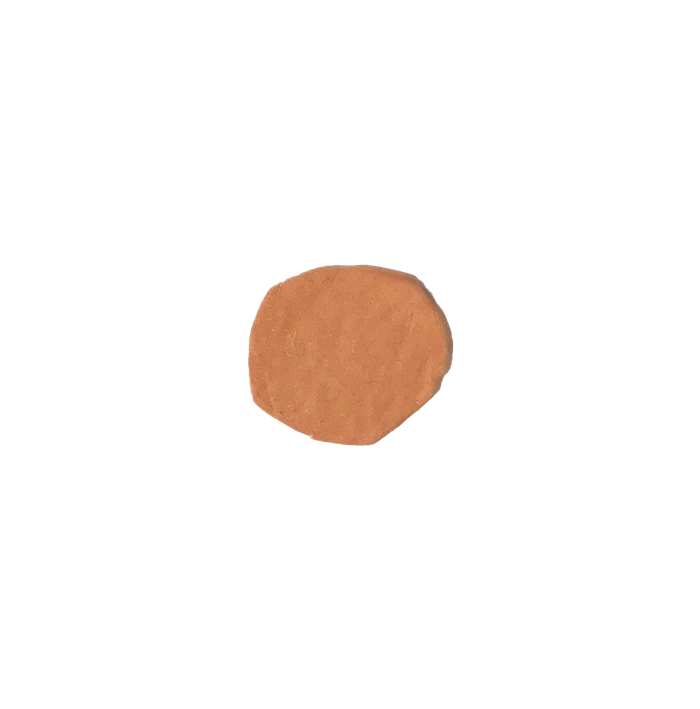
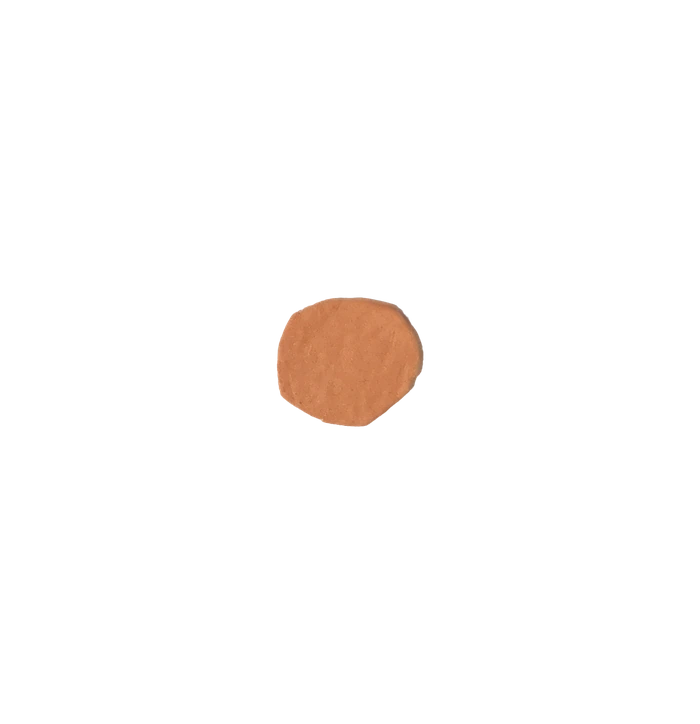
Keep objects inside their tile as they grow; Valley Strong; SoCal final frame
NEVER LEAVING THE GRID SQUARE — Noah: "if the heart is thrown THEN the
animation starts, the heart will go outside the bounds of the grid area.
Please make it so that the icons never go outside the bounds of the grid
square, but always feel like they're sitting or resting on the borders."

The containment test was inside the physics step's early-out, so it only ran
while the object was awake. That is precisely backwards for this bug: the
outline changes underneath the physics as the animation plays, and these
animations mostly GROW, so a heart parked against a border and then played
swelled straight through the edge it was resting on with nothing left running
to push it back. Collision now runs unconditionally, including while asleep,
with only the bounce and roll RESPONSES gated on being awake. The object is
also woken whenever the frame changes, so a newly larger shape settles back
down onto a border instead of hanging where its smaller self came to rest.

Verified by parking the CAC heart against an edge and then playing it: it
finishes on its last, largest frame contained on all four sides.

FIXED A REAL DRAG BUG found while testing that. setPointerCapture throws
NotFoundError when the pointer is no longer active — a fast flick, or one
that has already left the window — and it was being called BEFORE the grab
offset and velocity samples were recorded. The throw aborted the handler with
`dragging` already true and nothing recorded, wedging the object in a
[…]

Changed region(s): [[0.33, 0.3724, 0.66, 0.6516]]

diff --git a/src/lib/useThrowable.ts b/src/lib/useThrowable.ts
@@ -162,12 +162,25 @@ export function useThrowable({
       if (lastTs.current == null) lastTs.current = ts;
       const dt = Math.min((ts - lastTs.current) / 1000, 1 / 30);
       lastTs.current = ts;
-      if (asleep.current && !dragging.current) return;
+
+      /* The containment test runs even while the object is ASLEEP, and that
+       * is not defensive tidiness — it is a real bug fix. The outline changes
+       * under the physics as the animation plays, and these animations mostly
+       * GROW: throw the CAC heart so it settles against a border, then play
+       * it, and the heart swells past the edge it was resting on. Noah:
+       * "if the heart is thrown THEN the animation starts, the heart will go
+       * outside the bounds of the grid area." Skipping collision whenever the
+       * object was at rest meant nothing ever pushed the newly larger shape
+       * back in. Clamping unconditionally guarantees the promise he actually
+       * wants — "the icons never go outside the bounds of the grid square" —
+       * no matter what changes the shape while it sits still. */
+      const idle = asleep.current && !dragging.current;
+      const before = { x: pos.current.x, y: pos.current.y };
 
       const cr = container.getBoundingClientRect();
       const W = el.offsetWidth;
 
-      if (!dragging.current) {
+      if (!idle && !dragging.current) {
         vel.current.y += cr.height * GRAVITY_PER_HEIGHT * dt;
         const drag = Math.max(0, 1 - AIR_DRAG * dt);
         vel.current.x *= drag;
@@ -187,13 +200,13 @@ export function useThrowable({
 
       if (p.x < left) {
         pos.current.x += left - p.x;
-        if (Math.abs(vel.current.x) > WALL_REST_SPEED) {
+        if (!idle && Math.abs(vel.current.x) > WALL_REST_SPEED) {
           vel.current.x = Math.abs(vel.current.x) * RESTITUTION;
           spin.current -= vel.current.y * 0.05;
         } else vel.current.x = 0;
       } else if (p.x > cr.width - right) {
         pos.current.x -= p.x - (cr.width - right);
-        if (Math.abs(vel.current.x) > WALL_REST_SPEED) {
+        if (!idle && Math.abs(vel.current.x) > WALL_REST_SPEED) {
           vel.current.x = -Math.abs(vel.current.x) * RESTITUTION;
           spin.current += vel.current.y * 0.05;
         } else vel.current.x = 0;
@@ -208,10 +221,10 @@ export function useThrowable({
         // Without this, gravity's per-frame kick against an unconditional
         // bounce keeps the object chattering just above the sleep threshold
         // and it never settles.
-        if (vel.current.y > WALL_REST_SPEED) vel.current.y = -vel.current.y * RESTITUTION;
+        if (!idle && vel.current.y > WALL_REST_SPEED) vel.current.y = -vel.current.y * RESTITUTION;
         else vel.current.y = 0;
 
-        if (!dragging.current) {
+        if (!idle && !dragging.current) {
           // Ground contact ties spin to horizontal speed the way a wheel
           // rolls. `down` is the effective rolling radius, floored at a
           // fraction of the width so a small vel.x can't demand an enormous
@@ -232,7 +245,7 @@ export function useThrowable({
         }
       }
 
-      apply();
+      if (!idle || before.x !== pos.current.x || before.y !== pos.current.y) apply();
     };
 
     const pointerPos = (e: PointerEvent) => {
@@ -241,15 +254,27 @@ export function useThrowable({
     };
 
     const onDown = (e: PointerEvent) => {
+      // Record the grab BEFORE asking for capture. setPointerCapture throws
+      // NotFoundError if the pointer is no longer active — a fast flick, or a
+      // pointer that has already left the window — and doing it first meant
+      // that throw aborted the handler with `dragging` already true and no
+      // grab offset or samples recorded, leaving the object wedged in a
+      // half-drag it could never complete. Capture is an enhancement (it keeps
+      // the drag alive outside the element's bounds), so it must not be able
+      // to take the drag down with it.
       dragging.current = true;
       movedEnough.current = false;
-      el.setPointerCapture(e.pointerId);
       const p = pointerPos(e);
       const piv = pivotPos();
       grabOffset.current = { x: piv.x - p.x, y: piv.y - p.y };
       samples.current = [{ ...p, t: performance.now() }];
       vel.current = { x: 0, y: 0 };
       asleep.current = false;
+      try {
+        el.setPointerCapture(e.pointerId);
+      } catch {
+        /* pointer already gone; the window-level pointerup still ends it */
+      }
     };
 
     const onMove = (e: PointerEvent) => {
@@ -347,5 +372,12 @@ export function useThrowable({
     };
   }, [elementRef, containerRef, enabled, shapeNow]);
 
-  return { reset, rotationRef: rot };
+  /** Let gravity take over again — used when the artwork changes shape, so a
+   *  newly grown object settles back onto a border instead of hanging where
+   *  its smaller self happened to rest. */
+  const wake = useCallback(() => {
+    asleep.current = false;
+  }, []);
+
+  return { reset, wake, rotationRef: rot };
 }

diff --git a/src/components/home/ProjectFrameAnimation.tsx b/src/components/home/ProjectFrameAnimation.tsx
@@ -43,12 +43,28 @@ export type FrameAnimation = {
   /** Intrinsic size of every (registered, identically sized) frame. */
   width: number;
   height: number;
+  /**
+   * How the object reacts as it plays.
+   *
+   * "rock" (default) kicks it a few degrees per frame, as though absorbing a
+   * bite. "draw" is for Valley Strong, where a house is drawn around a person
+   * — Noah: "I don't need each of the lines to shake like the others, but I
+   * do want some sense that the line is being drawn on." So it holds still and
+   * CROSSFADES between frames instead. That works because consecutive frames
+   * are identical except for the line just added: fading between them leaves
+   * everything already drawn rock steady and washes in only the new stroke,
+   * which is exactly the impression of ink being laid down.
+   */
+  style?: "rock" | "draw";
 };
 
 /** Per-frame hold. Nudged up from 150 — Noah: "just a tad slower". */
 const FRAME_MS = 210;
 /** Peak rock, in degrees. Small: it should read as recoil, not a spin. */
 const ROCK_DEG = 7;
+/** Crossfade length for "draw" animations — long enough to see the stroke
+ *  arrive, short enough that the drawing never looks blurry. */
+const DRAW_FADE_MS = 150;
 
 export default function ProjectFrameAnimation({
   animation,
@@ -62,7 +78,7 @@ export default function ProjectFrameAnimation({
   className?: string;
   style?: React.CSSProperties;
 }) {
-  const { frames, width, height } = animation;
+  const { frames, width, height, style: motion = "rock" } = animation;
   const [index, setIndex] = useState(0);
   /* Mirrors `index` for the physics, which reads it inside a rAF loop and must
    * not be re-subscribed on every frame change. */
@@ -83,6 +99,7 @@ export default function ProjectFrameAnimation({
    * so it reads as the object absorbing a bite rather than swinging. Written
    * straight to the style so it costs no React render inside the loop. */
   const rock = useCallback((step: number) => {
+    if (motion === "draw") return; // holds still; the crossfade carries it
     const el = rockRef.current;
     if (!el) return;
     const decay = Math.pow(0.62, step);
@@ -94,7 +111,7 @@ export default function ProjectFrameAnimation({
       el.style.transition = `transform ${FRAME_MS * 0.85}ms cubic-bezier(.2,.7,.3,1)`;
       el.style.transform = "rotate(0deg)";
     });
-  }, []);
+  }, [motion]);
 
   const play = useCallback(() => {
     if (spent.current) return; // plays once; see the note above
@@ -115,17 +132,22 @@ export default function ProjectFrameAnimation({
     }, FRAME_MS);
   }, [clearTimer, frames.length, rock]);
 
-  useEffect(() => {
-    frameRef.current = index;
-  }, [index]);
-
-  const { reset: resetThrow } = useThrowable({
+  const { reset: resetThrow, wake } = useThrowable({
     elementRef: hostRef,
     containerRef,
     imageSrcs: frames,
     frameRef,
     onClick: play,
   });
+
+  useEffect(() => {
+    frameRef.current = index;
+    // The outline just changed, and these shapes mostly grow. Hand control
+    // back to gravity so a bigger object settles onto a border rather than
+    // hanging where its smaller self came to rest.
+    wake();
+  }, [index, wake]);
+
 
   /** Whole again: frame 1, upright, back where it started. */
   const restore = useCallback(() => {
@@ -198,7 +220,10 @@ export default function ProjectFrameAnimation({
               priority={i === 0}
               draggable={false}
               className="object-contain pointer-events-none"
-              style={{ opacity: i === index ? 1 : 0 }}
+              style={{
+                opacity: i === index ? 1 : 0,
+                transition: motion === "draw" ? `opacity ${DRAW_FADE_MS}ms linear` : undefined,
+              }}
             />
           ))}
         </div>

diff --git a/src/components/home/Projects.tsx b/src/components/home/Projects.tsx
@@ -12,9 +12,8 @@ import ProjectFrameAnimation, { type FrameAnimation } from "./ProjectFrameAnimat
  * about-me head] is looking and essentially want it to happen on the
  * homepage.")
  *
- * Sprouts, Corita, SoCal Earth and the Cultural Olympiad are edited; Valley
- * Strong and More Work still have raws only, so those tiles keep their hover
- * video until frames arrive. Both paths live side by side on purpose — a tile
+ * Five of the six are edited; only More Work still has raws, so that tile
+ * keeps its hover video until frames arrive. Both paths live side by side on purpose — a tile
  * shows an object if it has one and falls back to video if it doesn't — so
  * they convert one at a time rather than in a flag day.
  *
@@ -22,8 +21,19 @@ import ProjectFrameAnimation, { type FrameAnimation } from "./ProjectFrameAnimat
  * them, each with its own anchor: the apple holds its STEM (the only part
  * that survives being eaten), the heart and the sun their CENTRE ("Have the
  * heart grow from the center"; the sun "starting as a dot") and the flame its
- * BASE ("Have the flame growing from the base"). See tools/project-animations/align_frames.py. */
+ * BASE ("Have the flame growing from the base"). Valley Strong is matched by
+ * TEMPLATE — a house is drawn around a person, and the person is only
+ * isolatable in frame 1, so frame 1 is located inside each later frame. See tools/project-animations/align_frames.py. */
 const OBJECT_ANIMATIONS: Record<string, FrameAnimation & { heightFraction: number }> = {
+  "valley-strong-credit-union": {
+    frames: [1, 2, 3, 4, 5, 6, 7].map(
+      (n) => `/assets/home/project-animations/valley-strong/${n}.webp`
+    ),
+    width: 700,
+    height: 496,
+    heightFraction: 0.315,
+    style: "draw",
+  },
   "sprouts-farmers-market": {
     frames: [1, 2, 3, 4, 5].map((n) => `/assets/home/project-animations/sprouts/${n}.webp`),
     width: 700,
@@ -37,10 +47,10 @@ const OBJECT_ANIMATIONS: Record<string, FrameAnimation & { heightFraction: numbe
     heightFraction: 0.367,
   },
   "socal-earth": {
-    frames: [1, 2, 3].map((n) => `/assets/home/project-animations/socal-earth/${n}.webp`),
+    frames: [1, 2, 3, 4].map((n) => `/assets/home/project-animations/socal-earth/${n}.webp`),
     width: 700,
-    height: 709,
-    heightFraction: 0.365,
+    height: 724,
+    heightFraction: 0.37,
   },
   "cultural-olympiad-poster": {
     frames: [1, 2, 3, 4, 5].map((n) => `/assets/home/project-animations/olympics/${n}.webp`),

diff --git a/tools/project-animations/align_frames.py b/tools/project-animations/align_frames.py
@@ -5,6 +5,17 @@ frame of the animation to look like the apple is consistent." Each animation
 needs a different treatment, because each is doing a different thing:
 
   ANCHOR — the point that must hold still between frames.
+    "template"  match frame 1's own silhouette into every later frame
+                (Valley Strong). A house is drawn around a person, so the
+                PERSON is what must not move — but he is only isolatable in
+                frame 1, where he is the entire drawing. Every later frame
+                buries him in walls and a roof, so no landmark test finds him.
+                Instead frame 1 is slid and scaled over each later frame until
+                the most of it is covered, which locates the same drawing
+                inside the bigger one. Measured before doing this, frame 1
+                overlapped the later frames only 21-35%, so the shots really
+                do wander; these are photographs of a drawing being added to,
+                not layers on one canvas.
     "stem"   the top of the shape (Sprouts). The apple is eaten from the
              sides, so the stem is the only landmark that survives; aligning
              on the centroid or the bbox would drag the apple sideways as the
@@ -72,9 +83,79 @@ def anchor_of(im, m, mode):
     raise ValueError(f"unknown anchor {mode!r}")
 
 
+def _mask(im, alpha=ALPHA):
+    return np.array(im)[..., 3] > alpha
+
+
+def _template_offsets(images):
+    """Locate frame 1's drawing inside every later frame.
+
+    Scores the share of the REFERENCE's pixels that the candidate covers, not
+    IoU: later frames legitimately contain far more ink, so intersection over
+    union would punish them for the house and pull the fit off the person.
+    """
+    import cv2
+
+    DS = 4
+    small = [cv2.resize(_mask(im).astype(np.uint8), None, fx=1 / DS, fy=1 / DS,
+                        interpolation=cv2.INTER_AREA) > 0 for im in images]
+    ref_s = small[0]
+    ry, rx = np.where(ref_s)
+    ref_pts = np.stack([rx, ry], 1)
+    total = max(len(ref_pts), 1)
+
+    def cover(m, scale, dx, dy):
+        H, W = m.shape
+        pts = (ref_pts * scale).astype(int)
+        xs = pts[:, 0] + dx
+        ys = pts[:, 1] + dy
+        ok = (xs >= 0) & (xs < W) & (ys >= 0) & (ys < H)
+        if not ok.any():
+            return -1.0
+        return m[ys[ok], xs[ok]].sum() / total
+
+    out = [(1.0, 0.0, 0.0)]
+    for m in small[1:]:
+        best = (-1.0, 1.0, 0, 0)
+        for scale in np.arange(0.86, 1.15, 0.02):
+            for dy in range(-40, 41, 4):
+                for dx in range(-40, 41, 4):
+                    c = cover(m, scale, dx, dy)
+                    if c > best[0]:
+                        best = (c, scale, dx, dy)
+        _, s0, dx0, dy0 = best
+        for scale in np.arange(s0 - 0.02, s0 + 0.021, 0.005):
+            for dy in range(dy0 - 4, dy0 + 5):
+                for dx in range(dx0 - 4, dx0 + 5):
+                    c = cover(m, scale, dx, dy)
+                    if c > best[0]:
+                        best = (c, scale, dx, dy)
+        _, scale, dx, dy = best
+        out.append((scale, dx * DS, dy * DS))
+    return out
+
+
 def align(paths, anchor="stem", scale_mode="normalise", pad=PAD,
           reference_size=REFERENCE_SIZE):
     frames = [shape(p) for p in paths]
+
+    if anchor == "template":
+        images = [im for im, _ in frames]
+        offs = _template_offsets(images)
+        _ref_im, ref_m = frames[0]
+        ax0 = (ref_m["x0"] + ref_m["x1"]) / 2.0
+        ay0 = (ref_m["y0"] + ref_m["y1"]) / 2.0
+        placed = []
+        for (im, _m), (sc, dx, dy) in zip(frames, offs):
+            # a frame-1 point p appears at p*sc + (dx,dy) here, so undo that
+            inv = 1.0 / sc
+            w, h = im.size
+            im2 = im.resize((max(1, round(w * inv)), max(1, round(h * inv))), Image.LANCZOS)
+            placed.append((im2, (ax0 * sc + dx) * inv, (ay0 * sc + dy) * inv))
+        # Template matching fixes the frames RELATIVE to each other but says
+        # nothing about how big the result should be, so the set still has to
+        # be brought to the shared reference like the others.
+        return _rescale_to_reference(_compose(placed, pad), reference_size)
 
     if scale_mode == "normalise":
         target_h = float(np.median([m["h"] for _, m in frames]))
@@ -95,6 +176,21 @@ def align(paths, anchor="stem", scale_mode="normalise", pad=PAD,
         ax, ay = anchor_of(im, m, anchor)
         placed.append((im2, ax * s, ay * s))
 
+    return _compose(placed, pad)
+
+
+def _rescale_to_reference(frames, reference_size):
+    """Scale a composed set so its LAST frame matches the shared size."""
+    a = np.array(frames[-1])
+    ys, xs = np.where(a[..., 3] > ALPHA)
+    geo = float(np.sqrt((xs.max() - xs.min() + 1) * (ys.max() - ys.min() + 1)))
+    k = reference_size / geo
+    W, H = frames[0].size
+    size = (max(1, round(W * k)), max(1, round(H * k)))
+    return [f.resize(size, Image.LANCZOS) for f in frames]
+
+
+def _compose(placed, pad):
     lefts, rights, tops, bottoms = [], [], [], []
     for im2, ax, ay in placed:
         a = np.array(im2)
